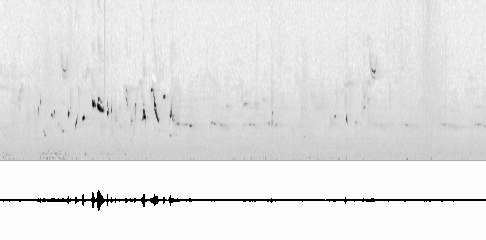
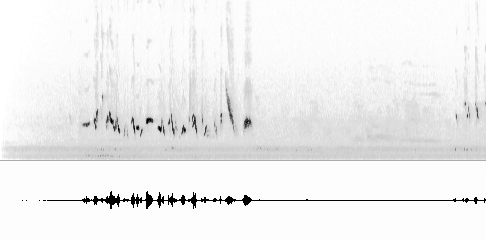
Add Hawaii Big Island & Kauai quizzes + IDK answer reveal (#16)
* Add Hawaii Big Island & Kauai bird song quizzes + show answer on IDK

- Add Big Island quiz (32 species): native honeycreepers (Iiwi, Apapane,
  Akiapolaau, Palila, etc.), endemic forest birds, and introduced species
- Add Kauai quiz (28 species): Kauai endemics (Kauai Elepaio, Anianiau,
  Kauai Amakihi) plus shared natives and introduced species
- Species lists compiled from recent eBird observations for each island
- Update fetch-xeno-canto.ts: add --lat/--lon CLI args for proximity
  sorting, fix null-safety bug for recordist/location fields
- Show correct answer when user clicks IDK instead of silently skipping

* Fix CI: generate recordings.json before lint/typecheck

The recordings.json files are gitignored (generated from CSV at build
time), but the lint job runs tsc which needs them. Add the build step.

---------

diff --git a/scripts/fetch-xeno-canto.ts b/scripts/fetch-xeno-canto.ts
@@ -31,9 +31,10 @@ if (!API_KEY) throw new Error('XENO_CANTO_API_KEY not found in .env');
 
 const SPECTRO_DIR = path.join(__dirname, '../static/quiz/spectrograms');
 
-// NYC coordinates for proximity sorting (Central Park as default center)
-const TARGET_LAT = 40.7829;
-const TARGET_LON = -73.9654;
+// Default coordinates for proximity sorting (Central Park, NYC)
+// Override with --lat and --lon CLI args for non-NYC quizzes
+let TARGET_LAT = 40.7829;
+let TARGET_LON = -73.9654;
 
 interface SpeciesEntry {
   common: string;
@@ -176,9 +177,19 @@ async function main() {
   const quizId = args.find((a) => !a.startsWith('--'));
   const missingOnly = args.includes('--missing');
 
+  // Override target coordinates if provided
+  const latIdx = args.indexOf('--lat');
+  const lonIdx = args.indexOf('--lon');
+  if (latIdx !== -1 && args[latIdx + 1]) {
+    TARGET_LAT = parseFloat(args[latIdx + 1]);
+  }
+  if (lonIdx !== -1 && args[lonIdx + 1]) {
+    TARGET_LON = parseFloat(args[lonIdx + 1]);
+  }
+
   if (!quizId) {
     console.error(
-      'Usage: npx tsx scripts/fetch-xeno-canto.ts <quiz-id> [--missing]'
+      'Usage: npx tsx scripts/fetch-xeno-canto.ts <quiz-id> [--missing] [--lat N --lon N]'
     );
     console.error('Available quizzes:');
     const { readdirSync } = await import('fs');
@@ -238,8 +249,12 @@ async function main() {
       const spectroUrl = rec.sono.med || rec.sono.large;
       if (spectroUrl) await downloadFile(spectroUrl, spectroPath);
 
-      const recordist = rec.rec.includes(',') ? `"${rec.rec}"` : rec.rec;
-      const loc = rec.loc.includes(',') ? `"${rec.loc}"` : rec.loc;
+      const rawRecordist = rec.rec ?? '';
+      const rawLoc = rec.loc ?? '';
+      const recordist = rawRecordist.includes(',')
+        ? `"${rawRecordist}"`
+        : rawRecordist;
+      const loc = rawLoc.includes(',') ? `"${rawLoc}"` : rawLoc;
       const csvLine = `${sp.common},${rec.gen} ${rec.sp},/quiz/audio/${slug}.mp3,/quiz/spectrograms/${slug}.png,${rec.id},${recordist},,medium,,${rec.cnt},${loc}`;
       await appendFile(csvPath, csvLine + '\n');
 

diff --git a/src/quiz/QuizCard.tsx b/src/quiz/QuizCard.tsx
@@ -37,7 +37,6 @@ export function QuizCard({
   questionNumber,
   totalQuestions,
   onAnswer,
-  onSkip,
   onReject,
   autoPlay = true,
 }: {
@@ -46,7 +45,6 @@ export function QuizCard({
   questionNumber: number;
   totalQuestions: number;
   onAnswer: (guessed: string, correct: boolean, elapsedSeconds: number) => void;
-  onSkip?: () => void;
   onReject?: (xenoCantoId: string) => void;
   autoPlay?: boolean;
 }) {
@@ -120,6 +118,13 @@ export function QuizCard({
     setFrozenElapsed(elapsedSeconds);
     setSubmitted(true);
   }, [guess, submitted]);
+
+  const handleIDK = useCallback(() => {
+    if (submitted) return;
+    setGuess('');
+    setFrozenElapsed(elapsedSeconds);
+    setSubmitted(true);
+  }, [submitted, elapsedSeconds]);
 
   // Auto-advance countdown after submission
   useEffect(() => {
@@ -288,15 +293,13 @@ export function QuizCard({
             >
               Submit
             </Button>
-            {onSkip && (
-              <Button
-                variant="outlined"
-                onClick={onSkip}
-                sx={{ whiteSpace: 'nowrap' }}
-              >
-                IDK
-              </Button>
-            )}
+            <Button
+              variant="outlined"
+              onClick={handleIDK}
+              sx={{ whiteSpace: 'nowrap' }}
+            >
+              IDK
+            </Button>
             {isDev && onReject && (
               <Tooltip title="Reject this recording (dev only)">
                 <IconButton
@@ -330,7 +333,9 @@ export function QuizCard({
                 <Typography>
                   {isCorrect
                     ? 'Correct!'
-                    : `Incorrect — it was ${recording.commonName}`}
+                    : guess.trim()
+                      ? `Incorrect — it was ${recording.commonName}`
+                      : `It was ${recording.commonName}`}
                 </Typography>
               </Box>
               {isCorrect && (

diff --git a/src/quiz/quizzes/index.ts b/src/quiz/quizzes/index.ts
@@ -1,6 +1,8 @@
 import type { QuizConfig } from '../types';
 import mcgolrickRecordings from './mcgolrick-april/recordings.json';
 import nycWarblersRecordings from './nyc-spring-warblers/recordings.json';
+import hawaiiBigIslandRecordings from './hawaii-big-island/recordings.json';
+import kauaiRecordings from './kauai/recordings.json';
 import type { RecordingManifest } from '../types';
 
 export const QUIZZES: QuizConfig[] = [
@@ -19,6 +21,22 @@ export const QUIZZES: QuizConfig[] = [
     description:
       'Every warbler passing through the five boroughs in spring. A true test of your warbler skills.',
     recordings: nycWarblersRecordings as RecordingManifest[],
+  },
+  {
+    id: 'hawaii-big-island',
+    title: 'Hawaii — Big Island',
+    subtitle: 'Hawaii Island',
+    description:
+      'Native honeycreepers, endemic forest birds, and introduced tropicals of the Big Island.',
+    recordings: hawaiiBigIslandRecordings as RecordingManifest[],
+  },
+  {
+    id: 'kauai',
+    title: 'Kauai',
+    subtitle: 'The Garden Isle',
+    description:
+      "Kauai endemics like Anianiau and Kauai Elepaio alongside the island's introduced chorus.",
+    recordings: kauaiRecordings as RecordingManifest[],
   },
 ];
 

diff --git a/src/quiz/Quiz.tsx b/src/quiz/Quiz.tsx
@@ -62,6 +62,7 @@ export function Quiz({
           correct,
           guessed,
           actual: recording.commonName,
+          skipped: !guessed.trim(),
           recording,
           points,
           elapsedSeconds,
@@ -71,23 +72,6 @@ export function Quiz({
     },
     [currentIndex, activeQuestions]
   );
-
-  const handleSkip = useCallback(() => {
-    const recording = activeQuestions[currentIndex];
-    setAnswers((prev) => [
-      ...prev,
-      {
-        correct: false,
-        guessed: '',
-        actual: recording.commonName,
-        skipped: true,
-        recording,
-        points: 0,
-        elapsedSeconds: 0,
-      },
-    ]);
-    setCurrentIndex((prev) => prev + 1);
-  }, [currentIndex, activeQuestions]);
 
   const handleReject = useCallback(
     async (xenoCantoId: string) => {
@@ -182,7 +166,6 @@ export function Quiz({
           questionNumber={currentIndex + 1}
           totalQuestions={activeQuestions.length}
           onAnswer={handleAnswer}
-          onSkip={handleSkip}
           onReject={handleReject}
           autoPlay={currentIndex > 0}
         />
